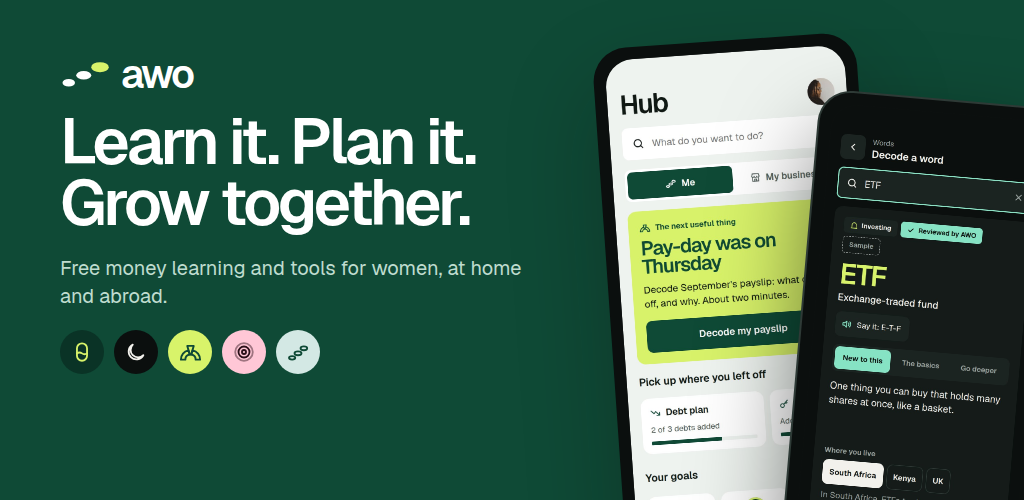
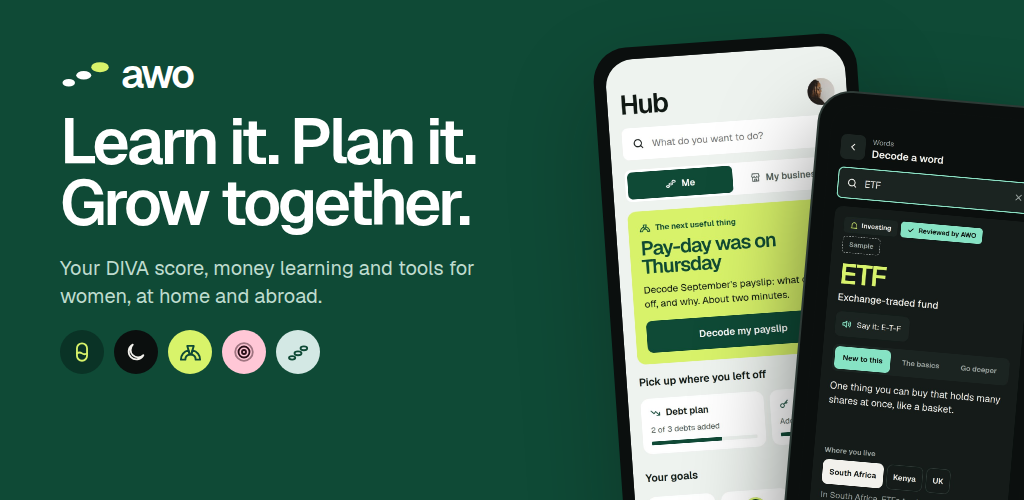
Name the DIVA score in the marketing
Both marketing sets now name the DIVA score: store screenshot 1, the
short and full descriptions, the feature graphics, the heroes, the ad
footers, and a new square DIVA ad in each. The score always says it is
readiness to learn, never a credit score. PNGs re-exported. Q-44 asks
whether the app should call its "Readiness" number the DIVA score too.

Claude-Session: https://claude.ai/code/session_01DjKBSUnZ7Bfy5fDRc5KkAV

Changed region(s): [[0.0625, 0.51, 0.5, 0.63]]

diff --git a/design/round-7/marketing7.py b/design/round-7/marketing7.py
@@ -30,15 +30,21 @@ def H(size, col, extra=''):
 
 
 STORE = [
-    ('me', POOL, EVG, SEC, LIME, 'Know where you stand.', 'A clear picture of your money life, in plain words. Not a credit score.', 'Your DIVA profile'),
+    ('me', POOL, EVG, SEC, LIME, 'Know your DIVA score.', 'Where your money life stands, in plain words. For learning, never a credit score.', 'Your DIVA profile'),
     ('home', EVG, LIME, ON_EVG, LIME, 'One small step a week.', 'One clear thing to do each week, sized to your life.', 'Home'),
     ('learn', NIGHT, MOON, NMUTED, LIME, 'Learn money in three minutes.', "Short lessons told through real women's stories.", 'Learn'),
     ('vault', LIME, EVG, INK, '#FFFFFF', 'Money words, made clear.', 'Keep the words you learn, and practise them in two minutes.', 'The Vault'),
     ('community', BLUSH, BLUSH_INK, BLUSH_2, LIME, 'Grow with women who get it.', 'Circles, cheers and honest questions. First names only.', 'Community'),
     ('ask', DEEP, MOON, NMUTED, LIME, 'Ask anything. Get plain answers.', 'Ola explains and teaches. It never tells you what to buy.', 'Ask Ola'),
-    ('progress', MIST, EVG, SEC, LIME, 'See how far you have come.', 'Check in every 30 days. Each check-in adds a version; old ones never change.', 'Your progress'),
-    ('checkin', POOL, EVG, SEC, LIME, 'Watch your safety net fill.', 'Three quick questions every 30 days. Honest answers, never shared.', 'The 30-day check-in'),
+    ('progress', MIST, EVG, SEC, LIME, 'See how far you have come.', 'Check in every 30 days and your DIVA score updates. Old versions never change.', 'Your progress'),
+    ('checkin', POOL, EVG, SEC, LIME, 'Watch your safety net fill.', 'Three questions every 30 days update your DIVA score. Honest answers, never shared.', 'The 30-day check-in'),
 ]
+BAL = 'text-wrap: balance'  # no one-word last lines in headlines
+# The DIVA score in marketing: always with what it is for, and never next to credit, loans or eligibility.
+FEATURE_HEAD = 'Know your DIVA score. Grow from there.'
+DIVA_FULL = ('Know your DIVA score.', 'A short check gives you your DIVA score: where your money life stands today across four areas, in plain words, '
+             'and the one step that would help most. It shows readiness to learn and act, and it is not a credit score. '
+             'Each 30-day check-in adds a new version; old ones never change.')
 PHOTO_TOGETHER = '/_blob/de99957f2ba63a4f30e2cf6bda586b39'  # two women laughing (nappy.co), used on Round 3's store screenshot
 
 
@@ -60,8 +66,8 @@ def store(i):
                  f'<span class="hand" style="font-size: 50px; {HF}">Takeaway on Friday. Cooked instead, and it was nicer.</span></div>')
     inner = f'''<div style="position: absolute; left: 90px; right: 90px; top: 96px; display: flex; flex-direction: column; gap: 30px">
   {lockup(52, mark_col, accent)}
-  <h1 style="{H(124, head)}">{title}</h1>
-  <p style="font-size: 40px; line-height: 1.3; color: {sub}; max-width: 860px">{text}</p>
+  <h1 style="{H(124, head, BAL)}">{title}</h1>
+  <p style="font-size: 40px; line-height: 1.3; color: {sub}; max-width: 860px; text-wrap: balance">{text}</p>
 </div>
 {pre}
 <div style="position: absolute; left: {dev_left}px; top: 740px">{device(CAPS[key], dev_w, 'The ' + alt + ' screen', dark=dark)}</div>
@@ -78,7 +84,7 @@ def shapes_row(size, gap=12):
 def feature():
     inner = f'''<div style="position: absolute; left: 60px; top: 56px; width: 500px; display: flex; flex-direction: column; gap: 20px">
   {lockup(40, '#FFFFFF', LIME)}
-  <h1 style="{H(66, '#FFFFFF')}">Know where you stand. Grow from there.</h1>
+  <h1 style="{H(66, '#FFFFFF', BAL)}">{FEATURE_HEAD}</h1>
   <p style="font-size: 20px; line-height: 1.4; color: {ON_EVG}">Free money learning for women, at home and abroad.</p>
   {shapes_row(44, 10)}
 </div>
@@ -98,28 +104,30 @@ def hero():
     inner = f'''<div style="position: absolute; left: 80px; top: 110px; width: 540px; display: flex; flex-direction: column; gap: 28px">
   {lockup(44, EVG, LIME)}
   <h1 style="{H(112, INK)}">Money, understood.</h1>
-  <p style="font-size: 24px; line-height: 1.45; color: {SEC}">Free money learning and insight for women building their financial lives, at home and abroad.</p>
+  <p style="font-size: 24px; line-height: 1.45; color: {SEC}">Your DIVA score, money learning and insight for women building their financial lives, at home and abroad.</p>
   <div style="display: flex; gap: 10px; flex-wrap: wrap">{chips}</div>
 </div>
 <img src="{IMG['naledi_table']}" alt="A woman working at her dining table with a laptop" style="position: absolute; left: 680px; top: 60px; width: 620px; height: 780px; object-fit: cover; object-position: 38% 50%; border-radius: 24px">
 <div style="position: absolute; left: 1200px; top: 140px">{device(CAPS['home'], 300, 'The Home screen')}</div>
 <div style="position: absolute; left: 640px; top: 620px; border-radius: 24px; background: #FFFFFF; padding: 20px 24px; display: flex; align-items: center; gap: 16px; box-shadow: 0 20px 50px rgba(11,15,14,.16)">
   <span style="width: 44px; height: 44px; border-radius: 10px; background: {LIME}; display: flex; align-items: center; justify-content: center">{icon('check', 24, EVG, 2.8)}</span>
-  <span style="display: flex; flex-direction: column; gap: 2px"><span style="font-size: 20px; font-weight: 600">Check-in done</span><span style="font-size: 15px; color: {MUTED}">Your profile has a new version</span></span></div>'''
+  <span style="display: flex; flex-direction: column; gap: 2px"><span style="font-size: 20px; font-weight: 600">Check-in done</span><span style="font-size: 15px; color: {MUTED}">Your DIVA score has a new version</span></span></div>'''
     return canvas_board('Device hero', 1600, 900, MIST, inner)
 
 
-SHORT = 'Learn money in plain words, see where you stand and grow with women who get it.'
+SHORT = 'Get your DIVA score, learn money in plain words and grow with women who get it.'
 FULL = [('', 'AWO is a free money-learning app for women in Southern Africa and the diaspora.'),
-        ('Know where you stand.', 'A short starter check builds your DIVA profile, explained in plain words. Each check-in makes a new version.'),
+        DIVA_FULL,
         ('Learn a little every day.', 'Three-minute lessons, a Vault of money words, and Ola, a guide who explains without judging.'),
         ('Take one step at a time.', 'One clear step each week, and a safety net that fills as you go.'),
         ('Grow together.', 'Share wins, ask questions and find your circle, from stokvels to side hustles.'),
         ('', 'AWO is for education. It does not give personal financial advice.')]
+assert len(SHORT) <= 80, len(SHORT)
 RULES = ['Icon 512 by 512, 32-bit PNG. Feature graphic 1024 by 500, with no transparency.',
          'Two to eight phone screenshots at 1080 by 1920 (9:16), 24-bit PNG.',
          'No ranking or promo words (best, top, new) and no install prompts on store graphics.',
-         'Educational wording only. Numbers on screens are samples.']
+         'Educational wording only. Numbers on screens are samples.',
+         'The DIVA score always says what it is: readiness to learn, never a credit score.']
 
 
 def listing():
@@ -128,7 +136,7 @@ def listing():
         f'<div style="width: 118px; height: 212px; border-radius: 10px; background: {bg}; overflow: hidden; position: relative; flex-shrink: 0"><span style="position: absolute; left: 9px; top: 9px; right: 9px; {H(14, head)}">{title}</span>'
         f'<img src="{CAPS[key]}" alt="" style="position: absolute; left: 16px; top: 64px; width: 86px; border-radius: 10px; box-shadow: 0 0 0 3px #0B0F0E, 0 0 0 4px #2E3A36"></div>'
         for key, bg, head, _s, _a, title, _t, _al in STORE)
-    feat_mini = f'''<div style="width: 512px; height: 250px; border-radius: 14px; background: {EVG}; position: relative; overflow: hidden; flex-shrink: 0"><div style="position: absolute; left: 28px; top: 28px; width: 260px; display: flex; flex-direction: column; gap: 12px">{lockup(22, '#FFFFFF', LIME)}<span style="{H(34, '#FFFFFF')}">Know where you stand. Grow from there.</span>{shapes_row(24, 6)}</div><div style="position: absolute; left: 318px; top: 24px; transform: rotate(-4deg)">{device(CAPS['home'], 130, '')}</div></div>'''
+    feat_mini = f'''<div style="width: 512px; height: 250px; border-radius: 14px; background: {EVG}; position: relative; overflow: hidden; flex-shrink: 0"><div style="position: absolute; left: 28px; top: 28px; width: 260px; display: flex; flex-direction: column; gap: 12px">{lockup(22, '#FFFFFF', LIME)}<span style="{H(34, '#FFFFFF', BAL)}">{FEATURE_HEAD}</span>{shapes_row(24, 6)}</div><div style="position: absolute; left: 318px; top: 24px; transform: rotate(-4deg)">{device(CAPS['home'], 130, '')}</div></div>'''
     chips = ''.join(f'<span class="chip" style="height: 32px; font-size: 14px; background: {bg}; color: {fg}">{t}</span>' for t, bg, fg in [('Education', EVG, '#FFFFFF'), ('Free', '#FFFFFF', EVG), ('English at launch', '#FFFFFF', EVG)])
     strong = lambda h: f'<strong style="color: {INK}">{h}</strong> ' if h else ''
     full = ''.join(f'<p style="margin: 0">{strong(h)}{t}</p>' for h, t in FULL)
@@ -157,6 +165,33 @@ def listing():
     return canvas_board('Store listing (our own layout)', 1720, 1000, MIST, inner)
 
 
+def ad_diva():
+    """The DIVA score as a sample result: the score, the stage on the stones, a strength and a focus."""
+    pts = [(56, 150, 46, 17), (186, 110, 52, 19), (318, 70, 52, 19), (440, 32, 42, 16)]
+    dash = ' stroke-dasharray="8 8"'
+    stones = ''.join(
+        f'<ellipse cx="{x}" cy="{y + 9}" rx="{rx}" ry="{ry}" fill="{"#BFD9D2" if i < 2 else "none"}"></ellipse>'
+        f'<ellipse cx="{x}" cy="{y}" rx="{rx}" ry="{ry}" fill="{[EVG, LIME, "none", "none"][i]}" stroke="{EVG}" stroke-width="3.5"{dash if i > 1 else ""}></ellipse>'
+        for i, (x, y, rx, ry) in enumerate(pts))
+    tile = lambda bg, k, v: (f'<div style="flex: 1; border-radius: {K // 2}px; background: {bg}; padding: 22px 26px; display: flex; flex-direction: column; gap: 8px">'
+                             f'<span style="font-size: 24px; color: {SEC}">{k}</span><span style="font-size: 32px; font-weight: 600; color: {EVG}">{v}</span></div>')
+    inner = f'''<h1 style="position: absolute; left: 80px; right: 80px; top: 70px; margin: 0; {H(112, EVG, BAL)}">What's your DIVA score?</h1>
+<div style="position: absolute; left: 80px; right: 80px; top: 330px; height: 500px; box-sizing: border-box; border-radius: {K}px; background: #FFFFFF; padding: 40px 44px; display: flex; flex-direction: column; gap: 30px; box-shadow: 0 24px 60px rgba(15,74,54,.12)">
+  <span style="position: absolute; right: 36px; top: 250px; height: 44px; padding: 0 16px; border-radius: 10px; border: 2px dashed {EVG}; color: {EVG}; display: inline-flex; align-items: center; font-size: 22px; font-weight: 600">Sample</span>
+  <div style="display: flex; gap: 44px; align-items: center">
+    <div role="img" aria-label="DIVA score 63 of 100" style="position: relative; width: 250px; height: 250px; flex-shrink: 0">{arc(250, 63, '#D3E8E4', EVG, sw=22)}
+      <span style="position: absolute; inset: 0; display: flex; flex-direction: column; align-items: center; justify-content: center; gap: 4px; padding-top: 6px"><span style="{H(96, EVG)}">63</span><span style="font-size: 22px; color: {SEC}">DIVA score</span></span></div>
+    <div style="display: flex; flex-direction: column; gap: 18px">
+      <span style="{H(76, EVG)}">Stage 2 of 4</span>
+      <svg role="img" aria-label="Four stepping stones. You are on stage 2." width="490" height="180" viewBox="0 0 490 180" style="display: block; overflow: visible">{stones}</svg>
+    </div>
+  </div>
+  <div style="display: flex; gap: 16px">{tile(MIST, 'Your strength', 'Everyday money')}{tile(LIME, 'Your focus', 'Ready for surprises')}</div>
+</div>
+<div style="position: absolute; left: 80px; right: 80px; bottom: 70px; display: flex; justify-content: space-between; align-items: flex-end"><span style="font-size: 30px; line-height: 1.35; color: {EVG}">Readiness to learn,<br>never a credit score.</span>{lockup(64, EVG, LIME)}</div>'''
+    return canvas_board('Square ad, the DIVA score', 1080, 1080, POOL, inner)
+
+
 def ad_photo():
     inner = f'''<div style="position: absolute; left: 80px; top: 90px; width: 500px; display: flex; flex-direction: column; gap: 28px">
   <h1 style="{H(108, BLUSH_INK)}">Talk money. Grow together.</h1>
@@ -164,7 +199,7 @@ def ad_photo():
 </div>
 <img src="{IMG7['phone_smile']}" alt="A woman laughing on a phone call" style="position: absolute; left: 620px; top: 90px; width: 380px; height: 740px; object-fit: cover; object-position: 50% 20%; border-radius: {K}px">
 <div style="position: absolute; left: 540px; top: 700px; height: 96px; padding: 0 30px 0 18px; border-radius: 24px; background: #FFFFFF; display: flex; align-items: center; gap: 16px; box-shadow: 0 20px 50px rgba(42,15,24,.2); font-size: 32px; font-weight: 600; color: {INK}"><span style="width: 60px; height: 60px; border-radius: 14px; background: {LIME}; display: flex; align-items: center; justify-content: center">{icon('check', 32, EVG, 2.8)}</span>Lesson done</div>
-<div style="position: absolute; left: 80px; right: 80px; bottom: 80px; display: flex; justify-content: space-between; align-items: flex-end"><span style="font-size: 30px; line-height: 1.35; color: {BLUSH_INK}">Free money learning<br>for women.</span>{lockup(64, BLUSH_INK, '#FFFFFF')}</div>'''
+<div style="position: absolute; left: 80px; right: 80px; bottom: 80px; display: flex; justify-content: space-between; align-items: flex-end"><span style="font-size: 30px; line-height: 1.35; color: {BLUSH_INK}">Your free DIVA score<br>and money learning.</span>{lockup(64, BLUSH_INK, '#FFFFFF')}</div>'''
     return canvas_board('Square ad, photo-led', 1080, 1080, BLUSH, inner)
 
 
@@ -176,7 +211,7 @@ def ad_pool():
   <h1 style="{H(168, LIME)}">R 100 at a time.</h1>
   <p style="font-size: 42px; line-height: 1.3; color: #FFFFFF">Build a safety net that fits your life.</p>
 </div>
-<div style="position: absolute; left: 470px; right: 80px; bottom: 90px; display: flex; justify-content: space-between; align-items: flex-end"><span style="font-size: 28px; line-height: 1.35; color: {ON_EVG}">Free money learning<br>for women.</span>{lockup(64, '#FFFFFF', LIME)}</div>'''
+<div style="position: absolute; left: 470px; right: 80px; bottom: 90px; display: flex; justify-content: space-between; align-items: flex-end"><span style="font-size: 28px; line-height: 1.35; color: {ON_EVG}">Your free DIVA score<br>and money learning.</span>{lockup(64, '#FFFFFF', LIME)}</div>'''
     return canvas_board('Square ad, the pool', 1080, 1080, EVG, inner)
 
 
@@ -204,4 +239,4 @@ def ad_story():
 
 BOARDS = ([(f'R7-Store-{i + 1}', (lambda i=i: store(i))) for i in range(len(STORE))]
           + [('R7-Listing', listing), ('R7-Feature-Graphic', feature), ('R7-App-Icon', icon512), ('R7-Hero-Device', hero),
-             ('R7-Ad-Photo', ad_photo), ('R7-Ad-Pool', ad_pool), ('R7-Ad-Word', ad_word), ('R7-Ad-Story', ad_story)])
+             ('R7-Ad-Diva', ad_diva), ('R7-Ad-Photo', ad_photo), ('R7-Ad-Pool', ad_pool), ('R7-Ad-Word', ad_word), ('R7-Ad-Story', ad_story)])

diff --git a/design/round-8/marketing8.py b/design/round-8/marketing8.py
@@ -15,7 +15,7 @@ sys.path.insert(0, os.path.join(HERE, '..', 'round-7'))
 from lib8 import *  # noqa: F401,F403
 from marketing import canvas_board, device  # noqa: E402
 from brand7 import app_icon, lockup  # noqa: E402,F401
-from marketing7 import H, K, hand_hole  # noqa: E402
+from marketing7 import H, K, hand_hole, DIVA_FULL  # noqa: E402
 
 CAPS8 = {
     'me': '/_blob/d51d3a8058fa852b31242735ec0f598e', 'home': '/_blob/15e1b287ae69912d749ec1ac1a4fa54b',
@@ -57,7 +57,7 @@ HF = "font-family: '[[ handFont ]]', cursive"
 BAL = 'text-wrap: balance'  # no one-word last lines in headlines
 
 STORE8 = [
-    ('me', POOL, EVG, SEC, LIME, 'Know where you stand.', 'A clear picture of your money life, in plain words. Not a credit score.', 'Me: your DIVA profile'),
+    ('me', POOL, EVG, SEC, LIME, 'Know your DIVA score.', 'Where your money life stands, in plain words. For learning, never a credit score.', 'Me: your DIVA profile'),
     ('home', EVG, LIME, ON_EVG, LIME, 'Goals of every kind.', 'A car, moving out, a trip home. Each one gets its own pool.', 'Home'),
     ('hub', LIME, EVG, INK, '#FFFFFF', 'Tools that do the sums with you.', 'Payslips, pay-day, debts and prices, worked out with your own numbers.', 'Hub'),
     ('payslip', MIST, EVG, SEC, LIME, 'Every line of your payslip, explained.', "See what came off, and why. Nothing counts until you've checked it.", 'Payslip decoder'),
@@ -69,7 +69,7 @@ STORE8 = [
 FILES = {  # board: export file name
     **{f'R8-Store-{i + 1}': f'store-{i + 1}-{s[0]}.png' for i, s in enumerate(STORE8)},
     'R8-Feature-Graphic': 'feature-graphic-1024x500.png', 'R8-Hero-Device': 'device-hero.png',
-    'R8-Ad-Payslip': 'ad-square-payslip.png', 'R8-Ad-Goals': 'ad-square-goals.png', 'R8-Ad-Words': 'ad-square-words.png',
+    'R8-Ad-Diva': 'ad-square-diva.png', 'R8-Ad-Payslip': 'ad-square-payslip.png', 'R8-Ad-Goals': 'ad-square-goals.png', 'R8-Ad-Words': 'ad-square-words.png',
     'R8-Ad-Shop': 'ad-square-shop.png', 'R8-Ad-Explained': 'ad-square-explained.png', 'R8-Ad-Podcast': 'ad-story-podcast-1080x1920.png',
 }
 
@@ -104,9 +104,9 @@ def store(i):
 
 # ---------------------------------------------------------------- listing
 
-SHORT = 'Learn money in plain words, do the sums with free tools, and grow with women.'
+SHORT = 'Get your DIVA score, learn money in plain words and do the sums with free tools.'
 FULL = [('', 'AWO is a free money-learning app for women in Southern Africa and the diaspora.'),
-        ('Know where you stand.', 'A short starter check builds your DIVA profile, explained in plain words. Each check-in makes a new version.'),
+        DIVA_FULL,
         ('Learn what matters.', 'Short paths on pay, debt, saving together, investing, crypto and forex, with scam checks built in. Decode any money word you hear. Real stories from women who fell and rose, and the AWO Podcast.'),
         ('Tools that do the sums with you.', 'Decode your payslip, plan pay-day with family support included, see your debt-free date, price your work and send invoices. Goals of every kind, each with its own pool.'),
         ('Grow together.', 'A feed of notes, letters and milestones, circles for your goals, and shops run by members. No likes to chase.'),
@@ -114,7 +114,8 @@ FULL = [('', 'AWO is a free money-learning app for women in Southern Africa and 
 RULES8 = ['Icon 512 by 512, 32-bit PNG. Feature graphic 1024 by 500, with no transparency.',
           'Two to eight phone screenshots at 1080 by 1920 (9:16), 24-bit PNG.',
           'No ranking or promo words (best, top, new) and no install prompts on store graphics.',
-          'Educational wording only. No company is named in ads. Numbers on screens are samples.']
+          'Educational wording only. No company is named in ads. Numbers on screens are samples.',
+          'The DIVA score always says what it is: readiness to learn, never a credit score.']
 assert len(SHORT) <= 80, len(SHORT)
 
 
@@ -164,7 +165,7 @@ def feature():
     inner = f'''<div style="position: absolute; left: 60px; top: 56px; width: 470px; display: flex; flex-direction: column; gap: 20px">
   {lockup(40, '#FFFFFF', LIME)}
   <h1 style="{H(64, '#FFFFFF', BAL)}">Learn it. Plan it. Grow together.</h1>
-  <p style="font-size: 20px; line-height: 1.4; color: {ON_EVG}">Free money learning and tools for women, at home and abroad.</p>
+  <p style="font-size: 20px; line-height: 1.4; color: {ON_EVG}">Your DIVA score, money learning and tools for women, at home and abroad.</p>
   {shapes_row8(44, 10)}
 </div>
 <div style="position: absolute; left: 610px; top: 40px; transform: rotate(-4deg)">{device(CAPS8['hub'], 240, 'The Hub screen')}</div>
@@ -178,7 +179,7 @@ def hero():
     inner = f'''<div style="position: absolute; left: 80px; top: 110px; width: 560px; display: flex; flex-direction: column; gap: 28px">
   {lockup(44, EVG, LIME)}
   <h1 style="{H(112, INK, BAL)}">Money, understood.</h1>
-  <p style="font-size: 24px; line-height: 1.45; color: {SEC}">Free money learning, tools that do the sums with you, and women who get it. At home and abroad.</p>
+  <p style="font-size: 24px; line-height: 1.45; color: {SEC}">Your DIVA score, money learning, tools that do the sums with you, and women who get it. At home and abroad.</p>
   <div style="display: flex; gap: 10px; flex-wrap: wrap">{chips}</div>
   {shapes_row8(48, 12)}
 </div>
@@ -191,6 +192,18 @@ def hero():
 
 
 # ---------------------------------------------------------------- ads
+
+def ad_diva():
+    chips = ''.join(f'<span style="height: 64px; padding: 0 24px; border-radius: 16px; background: #FFFFFF; color: {EVG}; display: inline-flex; align-items: center; font-size: 30px; font-weight: 600">{t}</span>' for t in ('Not a credit score', 'Updates every 30 days'))
+    inner = f'''<div style="position: absolute; left: 80px; top: 90px; width: 470px; display: flex; flex-direction: column; gap: 30px">
+  <h1 style="{H(104, EVG, BAL)}">What's your DIVA score?</h1>
+  <p style="font-size: 34px; line-height: 1.3; color: {SEC}">A short check shows where your money life stands, in plain words.</p>
+  <div style="display: flex; gap: 12px; flex-wrap: wrap">{chips}</div>
+</div>
+<div style="position: absolute; left: 600px; top: 60px">{device(CAPS8['me'], 400, 'The Me screen, with a sample DIVA profile')}</div>
+<div style="position: absolute; left: 80px; bottom: 80px">{lockup(64, EVG, LIME)}</div>'''
+    return canvas_board('Square ad, the DIVA score', 1080, 1080, POOL, inner)
+
 
 def ad_payslip():
     chips = ''.join(f'<span style="height: 64px; padding: 0 24px; border-radius: 16px; background: #FFFFFF; color: {EVG}; display: inline-flex; align-items: center; font-size: 30px; font-weight: 600">{t}</span>' for t in ('PAYE', 'UIF', 'Pension'))
@@ -215,7 +228,7 @@ def ad_goals():
   <p style="font-size: 36px; line-height: 1.3; color: #FFFFFF">One pool each, filled at your pace.</p>
 </div>
 <div style="position: absolute; left: 80px; right: 80px; top: 424px; display: flex; justify-content: space-between">{pools}</div>
-{foot('#FFFFFF', LIME, 'Free money learning<br>and tools for women.', ON_EVG)}'''
+{foot('#FFFFFF', LIME, 'A free DIVA score, lessons<br>and tools for women.', ON_EVG)}'''
     return canvas_board('Square ad, goals', 1080, 1080, EVG, inner)
 
 
@@ -277,7 +290,7 @@ def ad_podcast():
 
 BOARDS = ([(f'R8-Store-{i + 1}', (lambda i=i: store(i))) for i in range(len(STORE8))]
           + [('R8-Listing', listing), ('R8-Feature-Graphic', feature), ('R8-Hero-Device', hero),
-             ('R8-Ad-Payslip', ad_payslip), ('R8-Ad-Goals', ad_goals), ('R8-Ad-Words', ad_words),
+             ('R8-Ad-Diva', ad_diva), ('R8-Ad-Payslip', ad_payslip), ('R8-Ad-Goals', ad_goals), ('R8-Ad-Words', ad_words),
              ('R8-Ad-Shop', ad_shop), ('R8-Ad-Explained', ad_explained), ('R8-Ad-Podcast', ad_podcast)])
 
 

diff --git a/design/round-8/layout8.py b/design/round-8/layout8.py
@@ -36,7 +36,7 @@ TITLES = {  # board file: title shown on canvas
     'R8-Startup': 'How a startup raises money (step through the rounds)',
     **{f'R8-Store-{i}': f'Store screenshot {i}' for i in range(1, 9)},
     'R8-Listing': 'Store listing, Round 8', 'R8-Feature-Graphic': 'Feature graphic, 1024 by 500', 'R8-Hero-Device': 'Device hero',
-    'R8-Ad-Payslip': 'Square ad: the payslip', 'R8-Ad-Goals': 'Square ad: goals', 'R8-Ad-Words': 'Square ad: words',
+    'R8-Ad-Diva': 'Square ad: the DIVA score', 'R8-Ad-Payslip': 'Square ad: the payslip', 'R8-Ad-Goals': 'Square ad: goals', 'R8-Ad-Words': 'Square ad: words',
     'R8-Ad-Shop': 'Square ad: shop local', 'R8-Ad-Explained': 'Square ad: explained, never sold', 'R8-Ad-Podcast': 'Story ad: the podcast',
 }
 
@@ -51,7 +51,7 @@ ROWS = [
     ('r8title8', 'Companies explained, in Learn', ['R8-Companies', 'R8-Company-Brief', 'R8-Startup']),
     ('r8title9', 'Marketing in the Round 8 IA: store screenshots', [f'R8-Store-{i}' for i in range(1, 9)]),
     ('r8title10', 'Marketing: listing, feature graphic, device hero', ['R8-Listing', 'R8-Feature-Graphic', 'R8-Hero-Device']),
-    ('r8title11', 'Marketing: ads', ['R8-Ad-Payslip', 'R8-Ad-Goals', 'R8-Ad-Words', 'R8-Ad-Shop', 'R8-Ad-Explained', 'R8-Ad-Podcast']),
+    ('r8title11', 'Marketing: ads', ['R8-Ad-Diva', 'R8-Ad-Payslip', 'R8-Ad-Goals', 'R8-Ad-Words', 'R8-Ad-Shop', 'R8-Ad-Explained', 'R8-Ad-Podcast']),
 ]
 
 HOWTO = ("Round 8: Learn with Words and Stories, the Hub at the centre, goals of every kind, real stories and a feed (D-037, D-038).\n\n"

diff --git a/design/round-7/group7.py b/design/round-7/group7.py
@@ -50,8 +50,8 @@ GROUPS = [
         ['R7-Listing', 'R7-Feature-Graphic', 'R7-App-Icon', 'R7-Hero-Device'],
         ['R7-R8-Listing', 'R7-R8-Feature-Graphic', 'R7-R8-Hero-Device']]),
     ('Marketing: ads', [
-        ['R7-Ad-Photo', 'R7-Ad-Pool', 'R7-Ad-Word', 'R7-Ad-Story'],
-        ['R7-R8-Ad-Payslip', 'R7-R8-Ad-Goals', 'R7-R8-Ad-Words', 'R7-R8-Ad-Shop', 'R7-R8-Ad-Explained', 'R7-R8-Ad-Podcast']]),
+        ['R7-Ad-Diva', 'R7-Ad-Photo', 'R7-Ad-Pool', 'R7-Ad-Word', 'R7-Ad-Story'],
+        ['R7-R8-Ad-Diva', 'R7-R8-Ad-Payslip', 'R7-R8-Ad-Goals', 'R7-R8-Ad-Words', 'R7-R8-Ad-Shop', 'R7-R8-Ad-Explained', 'R7-R8-Ad-Podcast']]),
 ]
 GAP, ROW_GAP, GROUP_GAP, TITLE = 80, 200, 400, 300
 

diff --git a/docs/TASKS.md b/docs/TASKS.md
@@ -12,6 +12,7 @@ Round 8 is on canvas page `r8` ([14](00-discovery/14-round-8.md)), all five batc
 |---|---|---|
 | T-093 | **React to Round 8** (page `r8`): the Hub modes "Me" and "My business", the nine tools, goals and Home, the stories and the podcast, the feed; and answer the new questions on members' stories (Q-42) and reaction counts (Q-43) | [14](00-discovery/14-round-8.md#questions-for-ian) |
 | T-095 | **Companies explained** (Q-36): may briefs name real listed companies (the Safaricom brief is a sample), and do the six proposed editorial rules stand? Also the refreshed store copy (Q-31) | [14](00-discovery/14-round-8.md#questions-for-ian) |
+| T-100 | **The DIVA score's name** (Q-44): the marketing now says "DIVA score"; should the app's "Readiness" label say the same? Also check the new DIVA copy in both marketing sets | [13](00-discovery/13-round-7.md#the-diva-score-in-the-marketing) |
 | T-092 | Name an owner for the facts behind Hub tools: tax tables, levies, thresholds (Q-41) | [14](00-discovery/14-round-8.md#questions-for-ian) |
 | T-085 | React to Round 7's new batches (accounts, the deeper loop, entrepreneurs, AWO Admin), and settle the admin approval rule (Q-34) | See [13](00-discovery/13-round-7.md#awo-admin-the-patterns-and-why) |
 | T-075 | React to **Round 7** as the full board: the new screens (progress, check-in, buddy, settings, onboarding), components, brand and motion. Are the tighter corners and square-cornered buttons right? | Switch the hand in any Round 7 board's Tweaks |
@@ -94,3 +95,4 @@ Round 8 is on canvas page `r8` ([14](00-discovery/14-round-8.md)), all five batc
 | T-096 | Round 8 batch 5: Companies explained (the path with six proposed editorial rules, a Safaricom brief labelled "Sample editorial", a sample startup's funding rounds) and the marketing refresh in the new tabs (eight store screenshots, the listing, a feature graphic, a device hero and six ads, exported to `design/marketing/round-8/`) | 2026-09-26 |
 | T-097 | Round 8 pulled into the Round 7 board: 46 copies (`R7-R8-*`) below Round 7, linked to each other, with Round 7 and page `r8` unchanged (`design/round-7/pull8.py`) | 2026-09-26 |
 | T-098 | Round 7 board grouped by topic: 14 sections (foundations, onboarding, Home, Learn, stories, the Hub, business, Community, Me, components, Admin, three for marketing), with Round 8's copies beside Round 7's and marked "(Round 8)" (`design/round-7/group7.py`) | 2026-09-26 |
+| T-099 | The DIVA score in the marketing: store screenshot 1, the listings (short and full), feature graphics, heroes, ad footers, and a new DIVA ad in both sets; PNGs re-exported (Q-44 for the name) | 2026-09-26 |

diff --git a/docs/CHANGELOG.md b/docs/CHANGELOG.md
@@ -6,6 +6,13 @@
 
 ## 2026-09-26
 
+### The DIVA score in the marketing
+- Ian: "There is no mention of the DIVA score in the marketing copy or the Play Store ads. Could we add it?" Both marketing sets (Round 7 and Round 8, and Round 8's copies on the Round 7 board) now name it.
+- **Store:** screenshot 1 now reads "Know your DIVA score." and "Where your money life stands, in plain words. For learning, never a credit score." In Round 7, progress and the check-in say the score updates every 30 days. The short descriptions lead with "Get your DIVA score" (79 and 80 of 80 characters), the full descriptions open with a DIVA paragraph (four areas, one step, not a credit score, new versions every 30 days), and each listing gains the rule "The DIVA score always says what it is". Round 7's feature graphic reads "Know your DIVA score. Grow from there."; Round 8's, and both heroes, name it in the subline.
+- **Ads:** a new square DIVA ad in each set, "What's your DIVA score?": Round 7's shows a sample result (63, stage 2 of 4 on the stones, a strength and a focus); Round 8's shows the Me screen. The photo, pool and goals ads now close on "Your free DIVA score". "Free" stays out of store graphics, per Google Play's rule on promotional text.
+- New Q-44: the marketing says "DIVA score", the app says "Readiness 63" under "Your DIVA profile". Proposed: "DIVA score" for the number everywhere, "DIVA profile" for the whole picture. The glossary lists "DIVA score" as proposed.
+- Round 7's store headlines and sublines are now balanced, so no line ends on one word. PNGs re-exported: 13 in `design/marketing/round-7/` and 5 in `round-8/`, including `ad-square-diva.png` in both. `group7.py` and `layout8.py` place the new ads first in their rows.
+
 ### Round 7 board grouped by topic
 - Ian: "Group screens and sections that make sense together: onboarding with onboarding, all the Home iterations together, marketing together." Page `r7` now reads top to bottom in 14 sections: foundations, brand and structure; onboarding; Home in every version, goals and the hard moments; Learn (the tab, lessons, topics, words, Ask); Learn's stories, podcast and companies explained; the Hub and its tools for a job; business; Community; Me; components and widgets; AWO Admin; then marketing (store screenshots, the listing set, ads).
 - Round 7's screens and the Round 8 copies now sit side by side in each section, and every copy's title ends in "(Round 8)". In marketing, Round 7's row sits above Round 8's.

diff --git a/docs/00-discovery/05-open-questions.md b/docs/00-discovery/05-open-questions.md
@@ -30,6 +30,7 @@
 | Q-41 | **Facts behind Hub tools:** who keeps tax tables, statutory deductions (PAYE, UIF; SHIF, NSSF, Housing Levy), VAT thresholds and registration steps current for each country, and how often are they checked? | The payslip decoder and the business setup checklist are only as good as their figures, and these change every year (South Africa's VAT threshold moved to R 2,3 million on 1 April 2026). | One named owner. Figures versioned by country and tax year, each with a source and a "checked on" date that every tool shows. Until then, designs use labelled samples. | Open (Round 8, [14](14-round-8.md)) |
 | Q-42 | **Members' stories** (Rise stories, "My worst money mistake"): who may edit them, how are members credited, are contributors paid, and how is a story taken down? | Real lives and real embarrassment; an edit can change what she meant. | An editor may shorten and correct; she approves the final text; first name and city by default, first name only or anonymous if she prefers; amounts optional; taken down on request. No payment at first. | Open (Round 8, `R8-Mistake`) |
 | Q-43 | **Reaction counts in the Community feed:** show public totals, or let only the author see hers? | Counts invite comparison and chasing, which fights the tone of the Circle (Q-29). | Hide public totals and follower counts; three reactions (Cheer, Same here, Taught me); the author sees her own numbers. | Open (Round 8, `R8-Feed-Parts`) |
+| Q-44 | **The DIVA score's name:** the marketing says "DIVA score" (Ian's words), while the app shows "Your DIVA profile" with "Readiness 63". One name for the number, everywhere? | Two names for one number confuse members, and the store screenshots show the app. | "DIVA score" for the 0 to 100 number in the app and the marketing; "DIVA profile" for the whole picture (score, stage, areas, evidence). Always paired with "not a credit score". | Open (the marketing uses "DIVA score"; the app still says "Readiness") |
 | Q-32 | **Ola beyond Learn and Ask:** may Ola appear in the Learn widget, store screenshots and ads? | D-021 limits the mascot to one area; marketing and widgets are edge cases. | Yes when the surface is about Learning; never next to results or money amounts. | Open |
 
 ## Answered

diff --git a/docs/STATUS.md b/docs/STATUS.md
@@ -18,4 +18,4 @@
 - **Design canvas:** [AWO Direction Explorations](https://claude.ai/artifact/KxjTM3X7VQiEButw4QNiV9), pages Round 1 to Round 8 (opens on Round 8). Round 7 is the reference board, and holds every Round 8 board too, grouped by topic in 14 sections (onboarding, Home, Learn, the Hub, Community, Me, Admin, marketing and more).
 - **Direction:** **E** (A + D: evergreen, lime, blush, mist, pool; Bricolage Grotesque + Geist; Night Oasis for Learn and Ask; Ola v2 orb). Round 4 made the flows deeper but flattened the look; Ian wants Round 3's bold condensed type, colour blocks, signature shapes and visual-first layouts back, as a **meaningful design language: fun, modern, clean** (D-028). The app has five tabs: **Home, Learn, Hub, Community, Me** (D-037); the Vault lives on as Words inside Learn.
 - **Environment:** the network is open for design research; browse with headless Chromium (`scripts/screenshot.mjs` or the Playwright MCP). Connectors: Figma (View seat), Unsplash (needs its account email confirmed), Fonts, tldraw, Trello, HyperFrames; Mobbin needs a paid plan. Claude self-checks boards with `scripts/canvas-preview.mjs` (D-026; recipe in [06](00-discovery/06-tooling-and-harness.md#reviewing-canvas-boards-locally-render-recipe)).
-- **Decisions:** D-001 to D-039 in [decisions/log.md](decisions/log.md). **Open questions:** [05-open-questions.md](00-discovery/05-open-questions.md) (non-blocking; newest are Q-34 to Q-43).
+- **Decisions:** D-001 to D-039 in [decisions/log.md](decisions/log.md). **Open questions:** [05-open-questions.md](00-discovery/05-open-questions.md) (non-blocking; newest are Q-34 to Q-44).

diff --git a/design/marketing/round-8/README.md b/design/marketing/round-8/README.md
@@ -7,7 +7,7 @@ These are exported from the Round 8 marketing boards on the canvas (page Round 8
 | `store-1-me.png` … `store-8-shop.png` | 1080 × 1920 | Google Play phone screenshots (the store allows eight): Me, Home with goals, the Hub, the payslip decoder, Words, Community, Stories and a member's shop |
 | `feature-graphic-1024x500.png` | 1024 × 500 | Google Play feature graphic |
 | `device-hero.png` | 1600 × 900 | Website or press hero |
-| `ad-square-payslip.png`, `ad-square-goals.png`, `ad-square-words.png`, `ad-square-shop.png`, `ad-square-explained.png` | 1080 × 1080 | Social posts |
+| `ad-square-diva.png`, `ad-square-payslip.png`, `ad-square-goals.png`, `ad-square-words.png`, `ad-square-shop.png`, `ad-square-explained.png` | 1080 × 1080 | Social posts |
 | `ad-story-podcast-1080x1920.png` | 1080 × 1920 | Story ad for the podcast. The quote is in the hand because it's the guest's own words |
 
 The store icon hasn't changed, so use `../round-7/app-icon-512.png`.
@@ -15,6 +15,7 @@ The store icon hasn't changed, so use `../round-7/app-icon-512.png`.
 What the set holds to:
 
 - **Education only.** No ad names a company. The investing ad says what AWO won't do: "Shares, explained. Never sold."
+- **The DIVA score says what it is:** readiness to learn, never a credit score (Q-44 asks whether the app should call it "DIVA score" too).
 - **Samples are labelled.** Wanjiru's shop carries a Sample chip, the podcast guest is called a sample guest, and the amounts on screens are samples.
 - **No ranking or promo words** (best, top, new) and no install prompts on store graphics.
 

diff --git a/docs/00-discovery/13-round-7.md b/docs/00-discovery/13-round-7.md
@@ -184,6 +184,10 @@ Ian asked for guidance on approvals and for a world-class dashboard. These patte
 
 Ian asked for one full board with all his ideas, without replacing anything on Round 7. Every Round 8 board ([14](14-round-8.md)) is now also on page `r7`, as copies named `R7-R8-*`, below Round 7's last row, in Round 8's own rows. The copies link to each other. Page `r8` is unchanged. `design/round-7/pull8.py` refreshes the copies.
 
+## The DIVA score in the marketing
+
+Ian noticed the marketing never named the DIVA score. It does now, in both sets (Round 7's and Round 8's), on the first store screenshot, the listings, the feature graphics, the heroes and a new square ad each ("What's your DIVA score?"). The rule the copy follows: the score always says what it is, readiness to learn and never a credit score, and it is never put next to loans, credit or eligibility. The app still labels the number "Readiness" under "Your DIVA profile"; Q-44 asks whether both should say "DIVA score".
+
 ## The board, grouped by topic
 
 Ian then asked for the board to be grouped by what the screens are, not by when they were made. Page `r7` now has 14 sections, top to bottom:

diff --git a/docs/glossary.md b/docs/glossary.md
@@ -7,6 +7,7 @@
 | **AWO** | African Wealth Oasis: the platform and the organisation. |
 | **Member** | A registered user of AWO (individual or entrepreneur context). |
 | **DIVA** | AWO's proprietary financial-readiness and behavioural-insight index. What the letters stand for is TBC (Q-05). |
+| **DIVA score** | The 0 to 100 readiness number in a result, as the marketing names it. The app labels it "Readiness" for now. Always shown with "not a credit score". **(proposed)** (Q-44) |
 | **Dimension** | One of the four areas DIVA measures for individuals: Financial Health (40%), Risk Intelligence & Behavioural Resilience (25%), Capital Positioning & Access Preferences (20%), Financial Intelligence & Goal Clarity (15%). Short labels are **(proposed)** (Q-05). |
 | **Category** | The educational-readiness band of a result: Bronze, Silver, Gold or Platinum. Naming under review (Q-04). Never implies creditworthiness or eligibility. |
 | **Starter check** | The short first assessment (currently "eight questions") that produces an early profile. **(proposed name)** |

diff --git a/design/marketing/round-7/README.md b/design/marketing/round-7/README.md
@@ -8,7 +8,7 @@ These are exported from the Round 7 boards on the canvas (page Round 7), built f
 | `feature-graphic-1024x500.png` | 1024 × 500 | Google Play feature graphic |
 | `app-icon-512.png` | 512 × 512 | Store icon (icon A, full bleed; the store applies its own mask) |
 | `device-hero.png` | 1600 × 900 | Website or press hero |
-| `ad-square-photo.png`, `ad-square-pool.png`, `ad-square-word.png` | 1080 × 1080 | Social posts |
+| `ad-square-diva.png`, `ad-square-photo.png`, `ad-square-pool.png`, `ad-square-word.png` | 1080 × 1080 | Social posts. The DIVA ad shows a sample result and says it is never a credit score |
 | `ad-story-1080x1920.png` | 1080 × 1920 | Story ad; the quote is in the hand because it is a member's own words |
 
 Regenerate with `design/round-7/marketing7.py` (through `round7.py`), then export at exact pixel size. When a screen changes, recapture it, upload it and update `CAPS` in `marketing7.py`.
